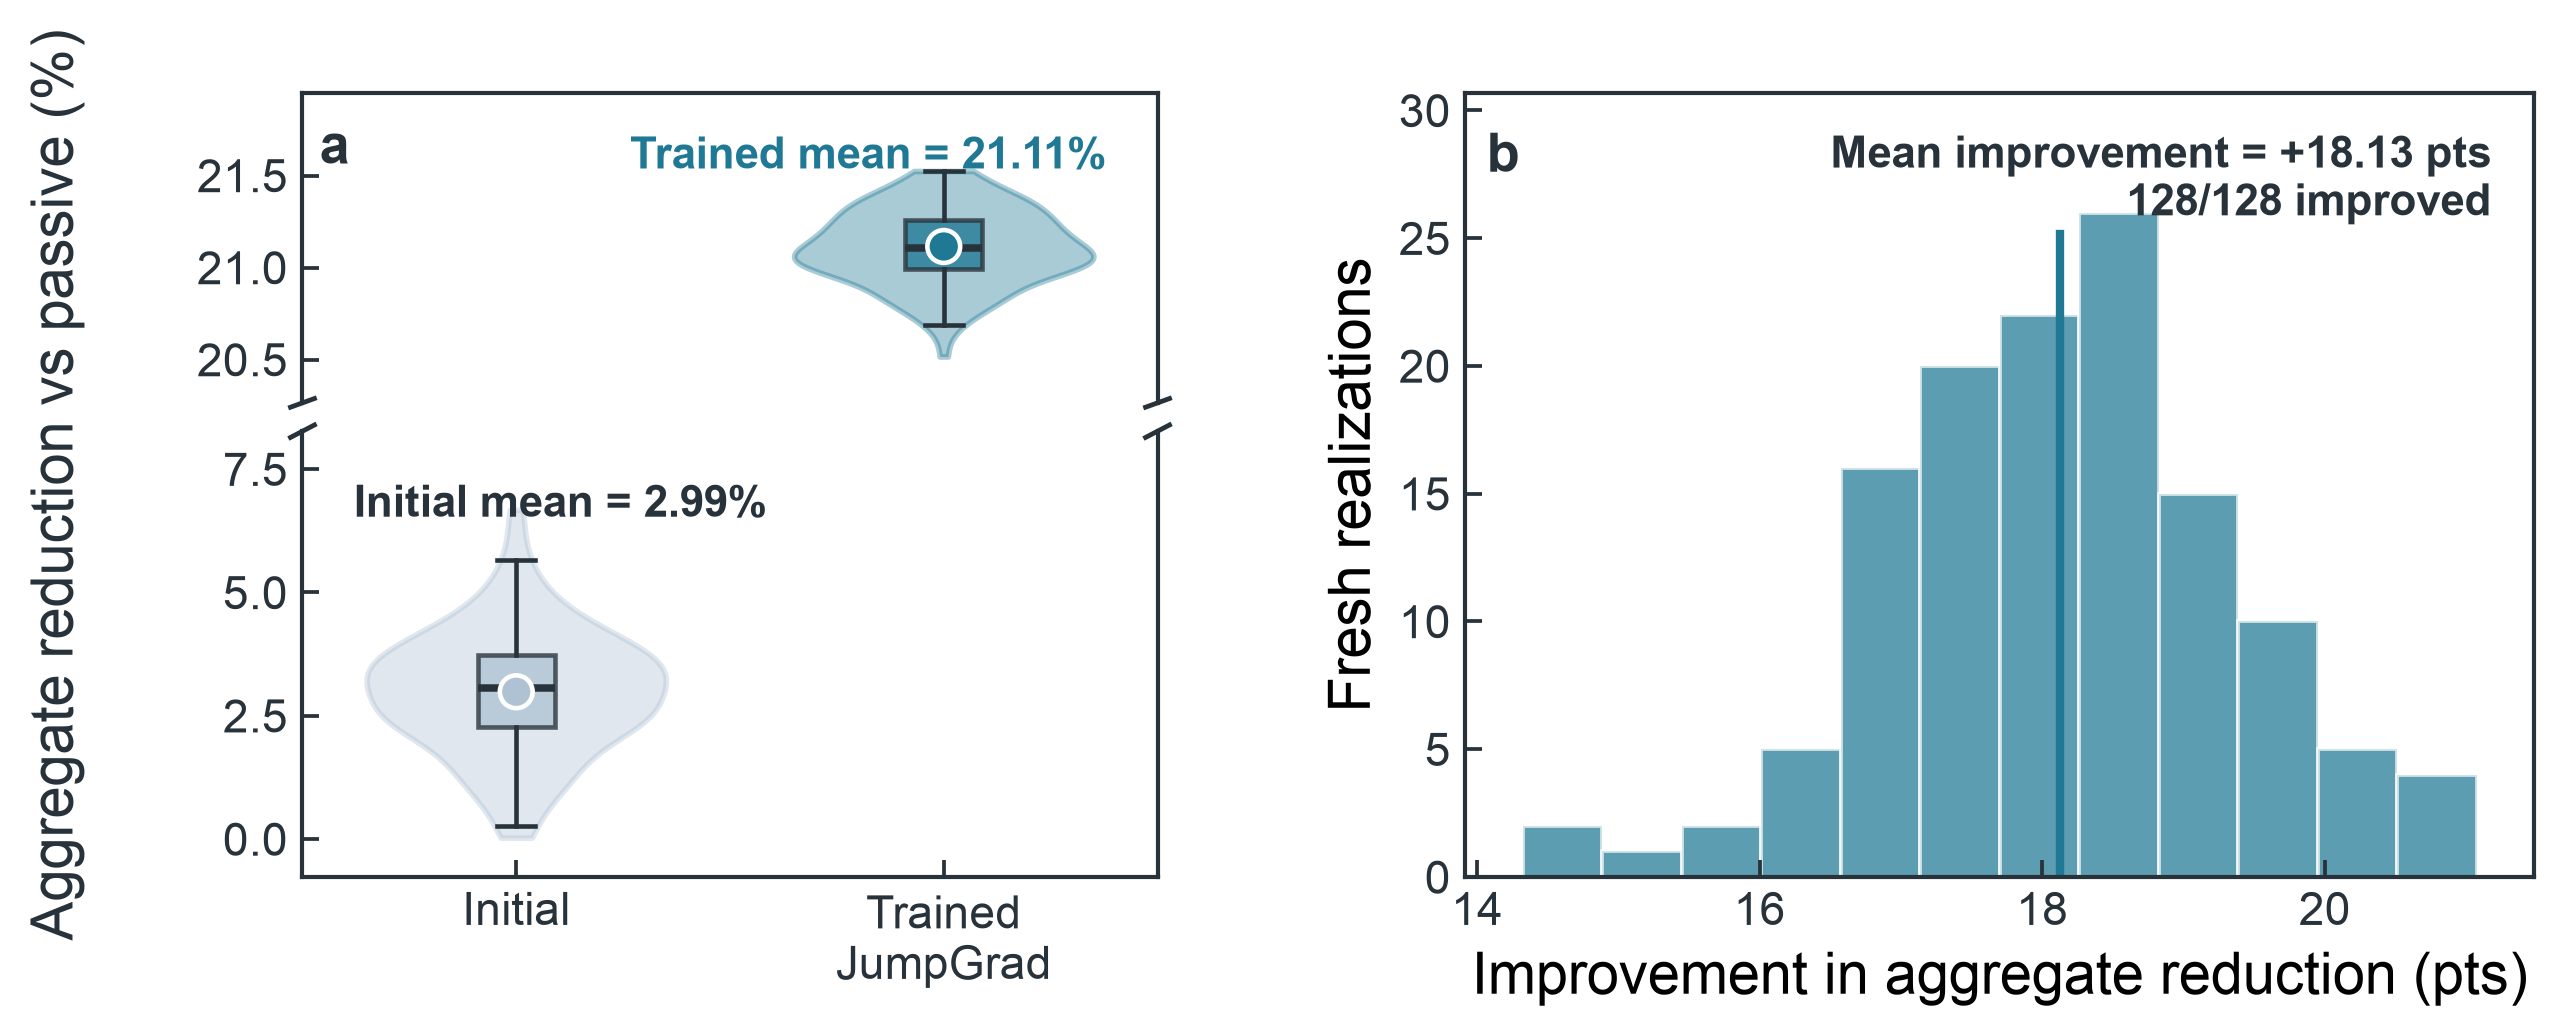
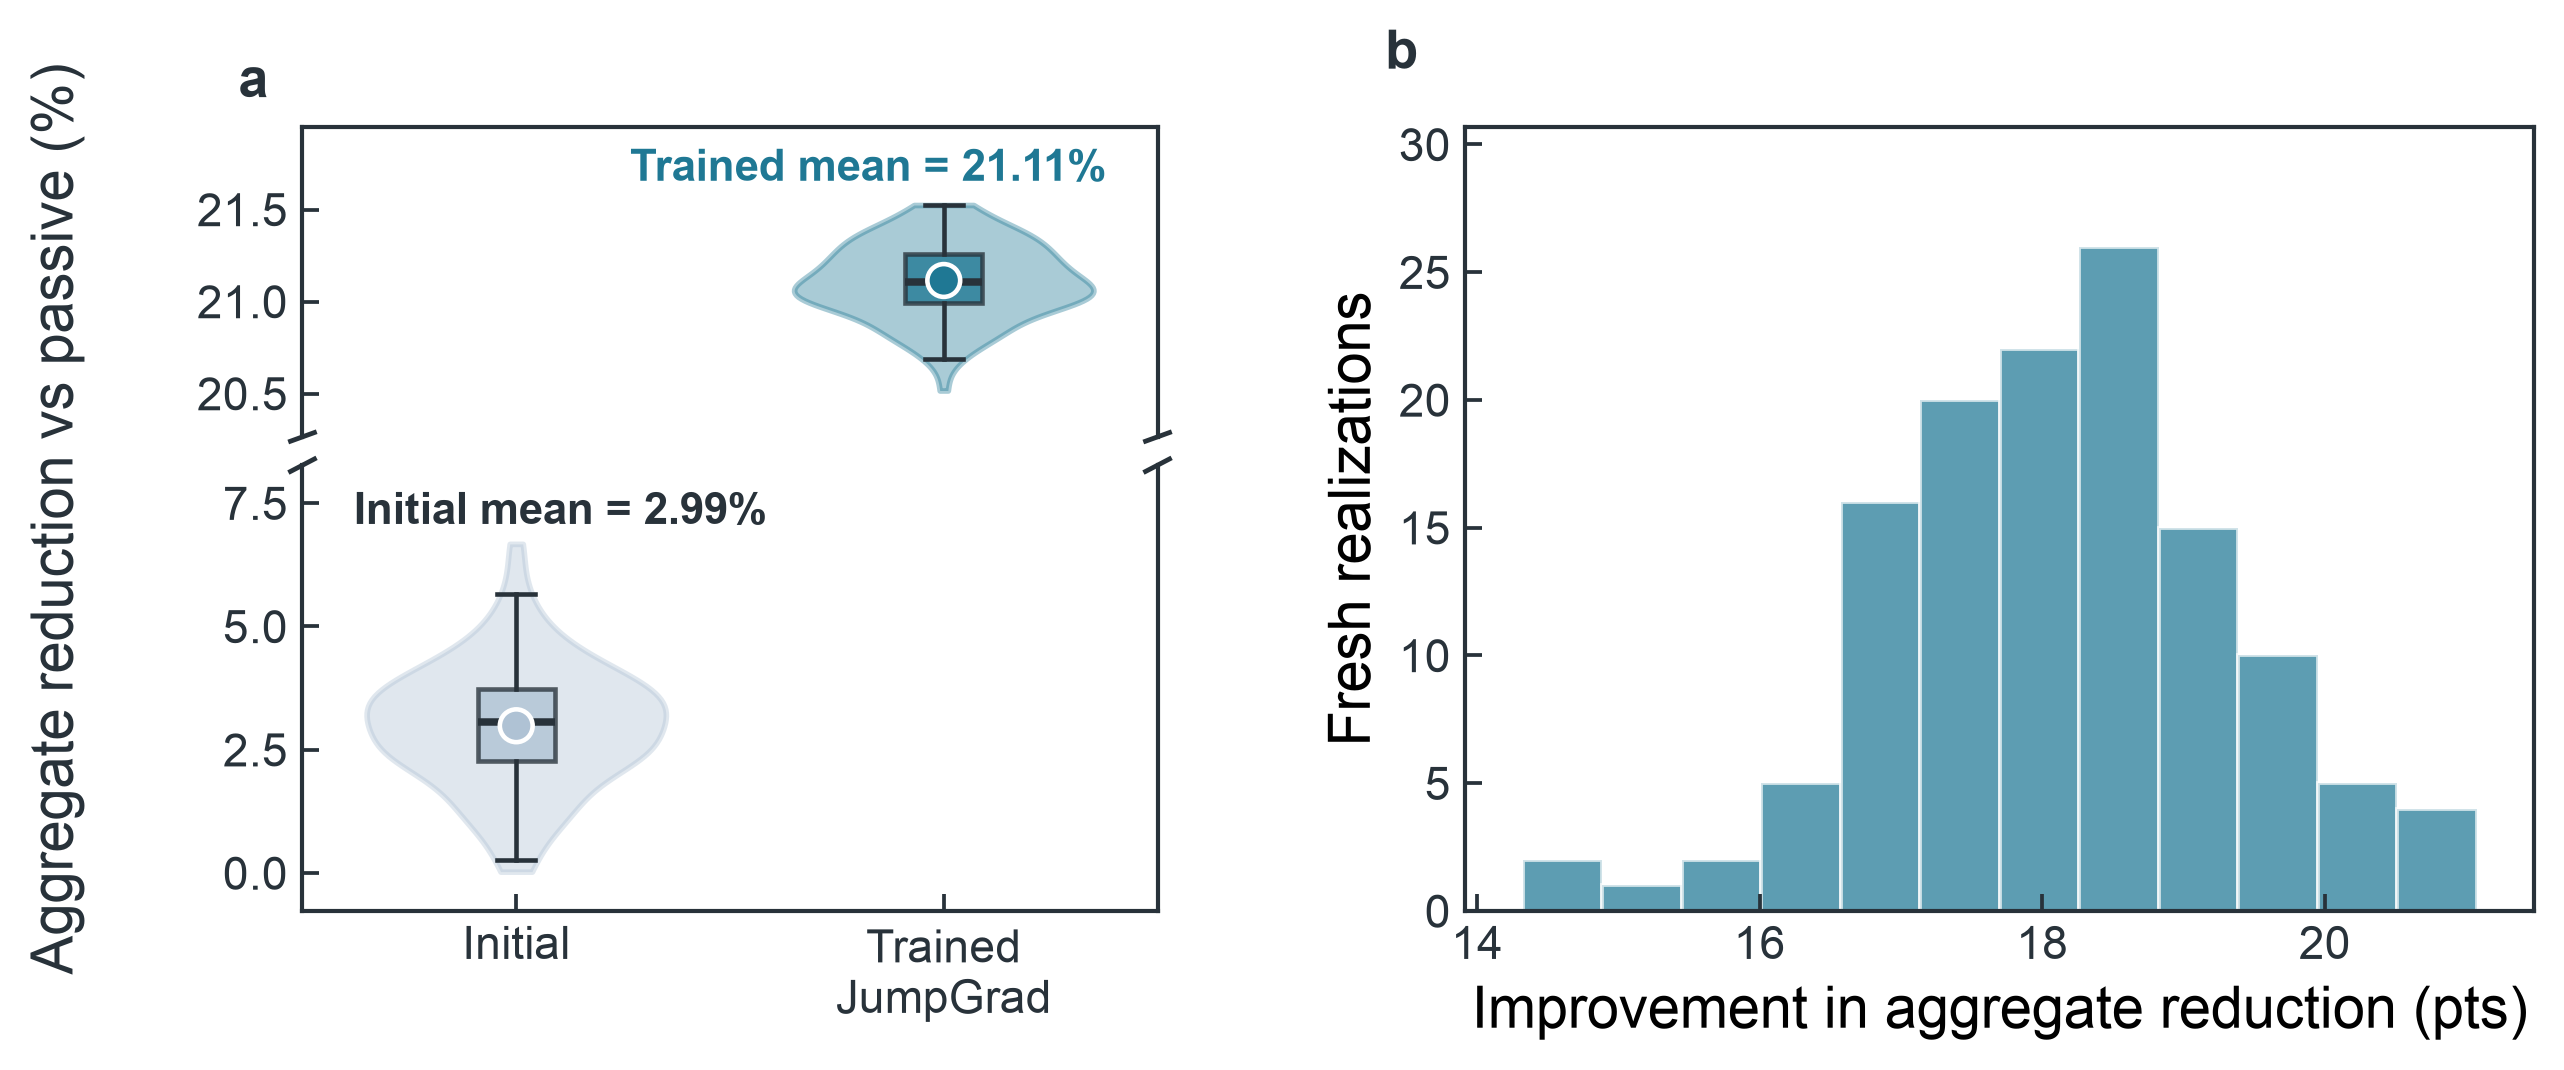
figures: finalize held-out panel labels and annotations

diff --git a/scripts/render_jumpgrad_visuals.py b/scripts/render_jumpgrad_visuals.py
@@ -508,7 +508,7 @@ def render_held_out(result: dict) -> tuple[float, float, float, int]:
     lower_axis.set_xticks(positions, ["Initial", "Trained\nJumpGrad"])
     upper_axis.text(
         0.94,
-        0.86,
+        0.93,
         f"Trained mean = {trained_mean:.2f}%",
         transform=upper_axis.transAxes,
         color=TRAINED_COLOR,
@@ -519,7 +519,7 @@ def render_held_out(result: dict) -> tuple[float, float, float, int]:
     )
     lower_axis.text(
         0.06,
-        0.88,
+        0.94,
         f"Initial mean = {initial_mean:.2f}%",
         transform=lower_axis.transAxes,
         color=FRAME_COLOR,
@@ -529,15 +529,16 @@ def render_held_out(result: dict) -> tuple[float, float, float, int]:
         va="top",
     )
     upper_axis.text(
-        0.02,
-        0.90,
+        -0.075,
+        1.06,
         "a",
         transform=upper_axis.transAxes,
         color=FRAME_COLOR,
         fontsize=13.0,
         fontweight="bold",
         ha="left",
-        va="top",
+        va="bottom",
+        clip_on=False,
     )
 
     break_size = 0.014
@@ -580,13 +581,6 @@ def render_held_out(result: dict) -> tuple[float, float, float, int]:
         edgecolor="white",
         linewidth=0.9,
     )
-    histogram_axis.axvline(
-        improvement_mean,
-        color=TRAINED_COLOR,
-        linestyle="-",
-        linewidth=2.0,
-        ymax=0.82,
-    )
     improvement_min = float(np.min(improvement))
     improvement_max = float(np.max(improvement))
     improvement_span = improvement_max - improvement_min
@@ -598,27 +592,16 @@ def render_held_out(result: dict) -> tuple[float, float, float, int]:
     histogram_axis.set_xlabel("Improvement in aggregate reduction (pts)")
     histogram_axis.set_ylabel("Fresh realizations")
     histogram_axis.text(
-        0.96,
-        0.95,
-        f"Mean improvement = +{improvement_mean:.2f} pts\n"
-        f"{improved_count}/128 improved",
-        transform=histogram_axis.transAxes,
-        color=FRAME_COLOR,
-        fontsize=10.5,
-        fontweight="bold",
-        ha="right",
-        va="top",
-    )
-    histogram_axis.text(
-        0.02,
-        0.95,
+        -0.075,
+        1.06,
         "b",
         transform=histogram_axis.transAxes,
         color=FRAME_COLOR,
         fontsize=13.0,
         fontweight="bold",
         ha="left",
-        va="top",
+        va="bottom",
+        clip_on=False,
     )
     _style_axis(histogram_axis)
 
